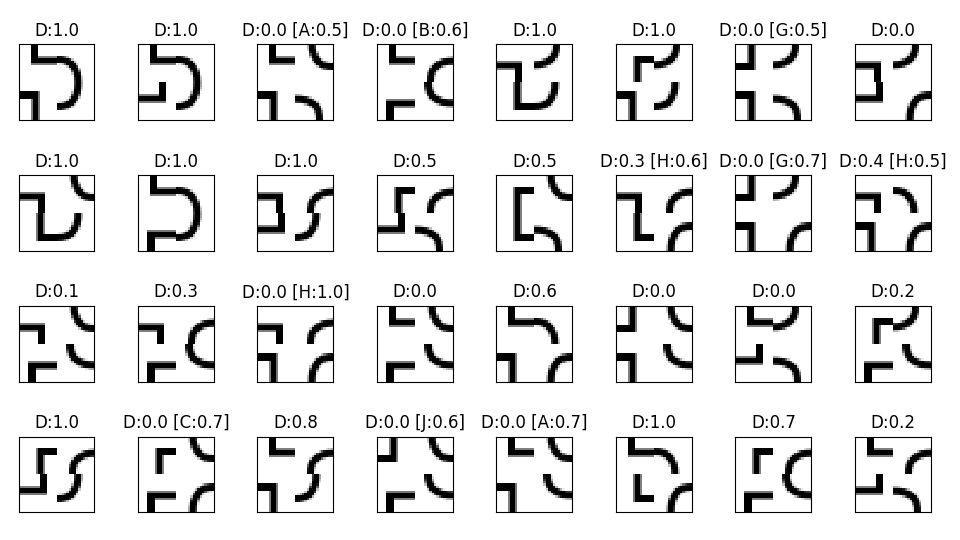
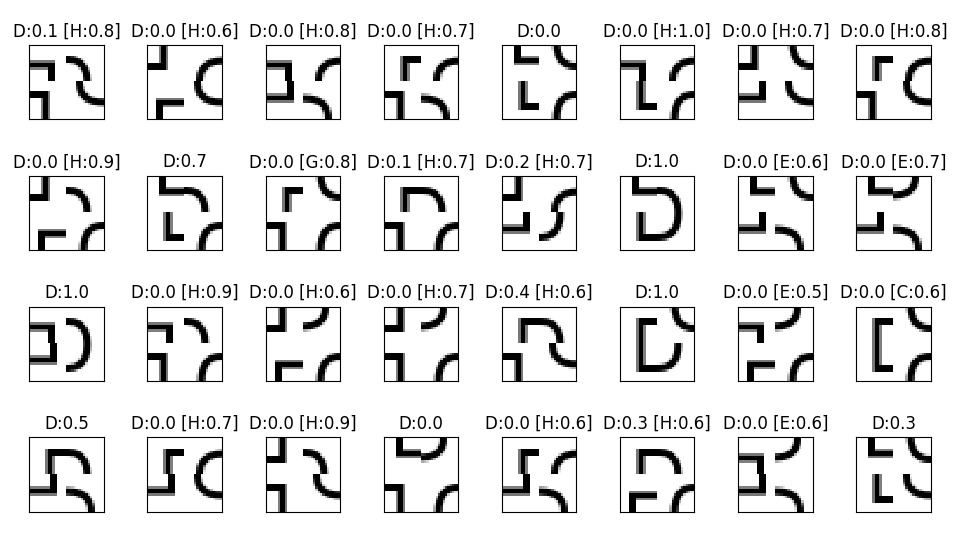
Some more refactoring, Noise/Acc, PSNR/Acc

diff --git a/sources/Task3.py b/sources/Task3.py
@@ -4,8 +4,8 @@ import numpy as np
 from keras import backend as K
 from keras.models import load_model
 from keras.preprocessing import image as keras_image
+import SplitPermutation
 from CharacterGenerator import generate_letters
-from NoiseGenerator import add_noise
 
 if K.backend() == 'tensorflow':
     K.set_image_dim_ordering("th")
@@ -16,8 +16,9 @@ if not os.path.isdir(OUT_DIR):
 
 W_DIR = 'Task2_out'
 
-model = load_model('Task2.h5')
+POSITIVE_THRESHOLD = 0.5
 
+model = load_model('Task2.h5')
 letters = list(generate_letters())
 
 
@@ -30,39 +31,55 @@ def load_images():
     return np.asarray(result)
 
 
-def classify_image(image, letter):
-    image = np.expand_dims(image / 255., axis=0)
-    predict = model.predict(image)
-    print(f'Cls {letter}', end='  ')
-    print(f'Acc:{predict[0][[letters.index(letter)]][0]:.1f}', end='  ')
-    for index, p in enumerate(predict[0]):
-        print(f'{letters[index]}:{p:.2f}', end='  ', flush=True)
-    print()
-
-
-def plot_images(images, noise_level):
-    fig = plt.figure(figsize=(8, 3))
+def classify_images(images, self_letter):
+    result = []
     for index, image in enumerate(images):
-        image = image.astype('int32').transpose((1, 2, 0))
-        ax = fig.add_subplot(2, 5, 1 + index, xticks=[], yticks=[])
-        ax.set_title(letters[index])
-        plt.imshow(image)
-    plt.savefig(fname=f'{OUT_DIR}/{noise_level}.png')
+        image = np.expand_dims(image / 255., axis=0)
+        predict = model.predict(image)[0]
+        self_index = letters.index(self_letter)
+        self_score = predict[self_index]
+
+        print(f'Cls {self_letter}', end='  ')
+        print(f'Acc:{self_score:.1f}', end='  ')
+        for ix, prediction in enumerate(predict):
+            print(f'{letters[ix]}:{prediction:.1f}', end='  ', flush=True)
+        print()
+
+        top_index = int(np.argmax(predict))
+        top_letter = None
+        top_score = None
+        if self_index != top_index and predict[top_index] > POSITIVE_THRESHOLD:
+            top_letter = letters[top_index]
+            top_score = predict[top_index]
+
+        result.append((self_letter, self_score, top_letter, top_score))
+    return result
+
+
+def plot_images(images, predictions):
+    fig = plt.figure(figsize=(9.6, 5.4))
+    letter = None
+    for index, img in enumerate(images):
+        letter, self_score, top_letter, top_score = predictions[index]
+        img = img.astype('int32').transpose((1, 2, 0))
+        ax = fig.add_subplot(4, 6, 1 + index, xticks=[], yticks=[])
+        title = f'{letter}:{self_score:.1f}'
+        if top_score:
+            title += f' [{top_letter}:{top_score:.1f}]'
+        ax.set_title(title)
+        plt.imshow(img)
+    fig.tight_layout()
+    plt.savefig(fname=f'{OUT_DIR}/{letter}.png')
     plt.show()
 
 
 def run():
-    np.random.seed(42)
-
-    for i in range(10):
-        images = load_images()
-        noise_level = i / 10.
-        print(f'Noise level: {noise_level}')
-        add_noise(target=images, noise_level=noise_level)
-        plot_images(images, noise_level)
-
-        for x, im in enumerate(images):
-            classify_image(im, letters[x])
+    images = load_images()
+    for index, image in enumerate(images):
+        letter = letters[index]
+        permutations = SplitPermutation.process(image)
+        predictions = classify_images(permutations, letter)
+        plot_images(permutations, predictions)
 
 
 run()

diff --git a/sources/Task5.py b/sources/Task5.py
@@ -4,8 +4,9 @@ import numpy as np
 from keras import backend as K
 from keras.models import load_model
 from keras.preprocessing import image as keras_image
-import SplitPermutation
 from CharacterGenerator import generate_letters
+from NoiseGenerator import add_noise
+from copy import deepcopy
 
 if K.backend() == 'tensorflow':
     K.set_image_dim_ordering("th")
@@ -31,11 +32,12 @@ def load_images():
     return np.asarray(result)
 
 
-def classify_images(images, self_letter):
+def classify_images(images):
     result = []
     for index, image in enumerate(images):
         image = np.expand_dims(image / 255., axis=0)
         predict = model.predict(image)[0]
+        self_letter = letters[index]
         self_index = letters.index(self_letter)
         self_score = predict[self_index]
 
@@ -56,30 +58,32 @@ def classify_images(images, self_letter):
     return result
 
 
-def plot_images(images, predictions):
-    fig = plt.figure(figsize=(9.6, 5.4))
-    letter = None
+def plot_images(images, predictions, noise_level):
+    fig = plt.figure(figsize=(8, 3))
     for index, img in enumerate(images):
         letter, self_score, top_letter, top_score = predictions[index]
         img = img.astype('int32').transpose((1, 2, 0))
-        ax = fig.add_subplot(4, 6, 1 + index, xticks=[], yticks=[])
+        ax = fig.add_subplot(2, 5, 1 + index, xticks=[], yticks=[])
         title = f'{letter}:{self_score:.1f}'
         if top_score:
             title += f' [{top_letter}:{top_score:.1f}]'
         ax.set_title(title)
         plt.imshow(img)
     fig.tight_layout()
-    plt.savefig(fname=f'{OUT_DIR}/{letter}.png')
+    plt.savefig(fname=f'{OUT_DIR}/{noise_level}.png')
     plt.show()
 
 
 def run():
-    images = load_images()
-    for index, image in enumerate(images):
-        letter = letters[index]
-        permutations = SplitPermutation.process(image)
-        predictions = classify_images(permutations, letter)
-        plot_images(permutations, predictions)
+    np.random.seed(1337)
+    original_images = load_images()
+    for i in range(10):
+        images = deepcopy(original_images)
+        noise_level = i / 10.
+        print(f'Noise level: {noise_level}')
+        add_noise(target=images, noise_level=noise_level)
+        predictions = classify_images(images)
+        plot_images(images, predictions, noise_level)
 
 
 run()

diff --git a/sources/Task7.py b/sources/Task7.py
@@ -9,6 +9,7 @@ from NoiseGenerator import add_noise
 from copy import deepcopy
 import seaborn as sns
 import pandas as pd
+import math
 
 if K.backend() == 'tensorflow':
     K.set_image_dim_ordering("th")
@@ -79,22 +80,32 @@ def plot_images(images, predictions, noise_level):
 def plot_graph(data):
     sns.set(style="darkgrid")
 
-    data_frame = pd.DataFrame(data=data, columns=['noise', 'acc'])
+    data_frame = pd.DataFrame(data=data, columns=['acc', 'noise'])
 
     plt.figure(figsize=(8, 6))
-    ax = sns.lineplot(x="noise", y="acc", data=data_frame)
+    ax = sns.lineplot(x="acc", y="noise", data=data_frame)
 
-    ax.set(xlabel='Noise ratio', ylabel='Accuracy')
+    ax.set(xlabel='Accuracy', ylabel='PSNR')
     plt.savefig(fname=f'{OUT_DIR}/plot.png')
-    plt.tight_layout()
     plt.show()
 
 
-def extract_data(predictions, noise_level):
+def psnr(original_image, altered_image):
+    mse = np.mean((original_image - altered_image) ** 2)
+    if mse == 0:
+        print('WARNING!')
+        return 100  # undefined
+    return 20 * math.log10(255. / math.sqrt(mse))
+
+
+def extract_data(predictions, original_images, altered_images):
     result = []
-    for prediction in predictions:
+    for index, prediction in enumerate(predictions):
         _, score, _, _ = prediction
-        result.append([noise_level, score])
+        score = np.round(score, 2)
+        original_image = original_images[index].astype('uint8')
+        altered_image = altered_images[index].astype('uint8')
+        result.append([score, psnr(original_image, altered_image)])
     return result
 
 
@@ -104,14 +115,14 @@ def run(step):
 
     data = []
 
-    for i in range(step):
+    for i in range(1, step):
         images = deepcopy(original_images)
         noise_level = i / float(step)
         print(f'Noise level: {noise_level}')
         add_noise(target=images, noise_level=noise_level)
         predictions = classify_images(images)
         # plot_images(images, predictions, noise_level)
-        data.append(extract_data(predictions, noise_level))
+        data.append(extract_data(predictions, original_images, images))
 
     data = np.asarray(data).reshape(-1, 2)
     plot_graph(data)

diff --git a/sources/Test.py b/sources/Test.py
@@ -6,12 +6,18 @@ from PIL import Image
 W_DIR = 'Task6_out'
 
 for x in range(0, 9):
-    A = np.array(Image.open(f'{W_DIR}/0.0.bmp'), dtype=np.float64)
-    B = np.array(Image.open(f'{W_DIR}/0.{x}.bmp'), dtype=np.float64)
+    A = np.array(Image.open(f'{W_DIR}/0.0.bmp'))
+    B = np.array(Image.open(f'{W_DIR}/0.{x}.bmp'))
+
+    print(A.dtype)
+
+    # print(A[0][0])
+    # print(B[0][0])
 
 
     def psnr(img1, img2):
         mse = np.mean((img1 - img2) ** 2)
+        print(f'MSE: {mse}')
         if mse == 0:
             return 100  # undefined
         return 20 * math.log10(255. / math.sqrt(mse))
@@ -20,3 +26,31 @@ for x in range(0, 9):
     d = psnr(A, B)
     print(d)
 
+#
+#
+
+# import math
+# import numpy as np
+#
+# import cv2
+#
+# W_DIR = 'Task6_out'
+#
+# for x in range(0, 9):
+#     A = cv2.imread(f'{W_DIR}/0.0.bmp')
+#     B = cv2.imread(f'{W_DIR}/0.{x}.bmp', 1)
+#
+#     print(A[0][0])
+#     print(B[0][0])
+#
+#
+#     def psnr(img1, img2):
+#         mse = np.mean((img1 - img2) ** 2)
+#         print(f'MSE: {mse}')
+#         if mse == 0:
+#             return 100  # undefined
+#         return 20 * math.log10(255. / math.sqrt(mse))
+#
+#
+#     d = psnr(A, B)
+#     print(d)
